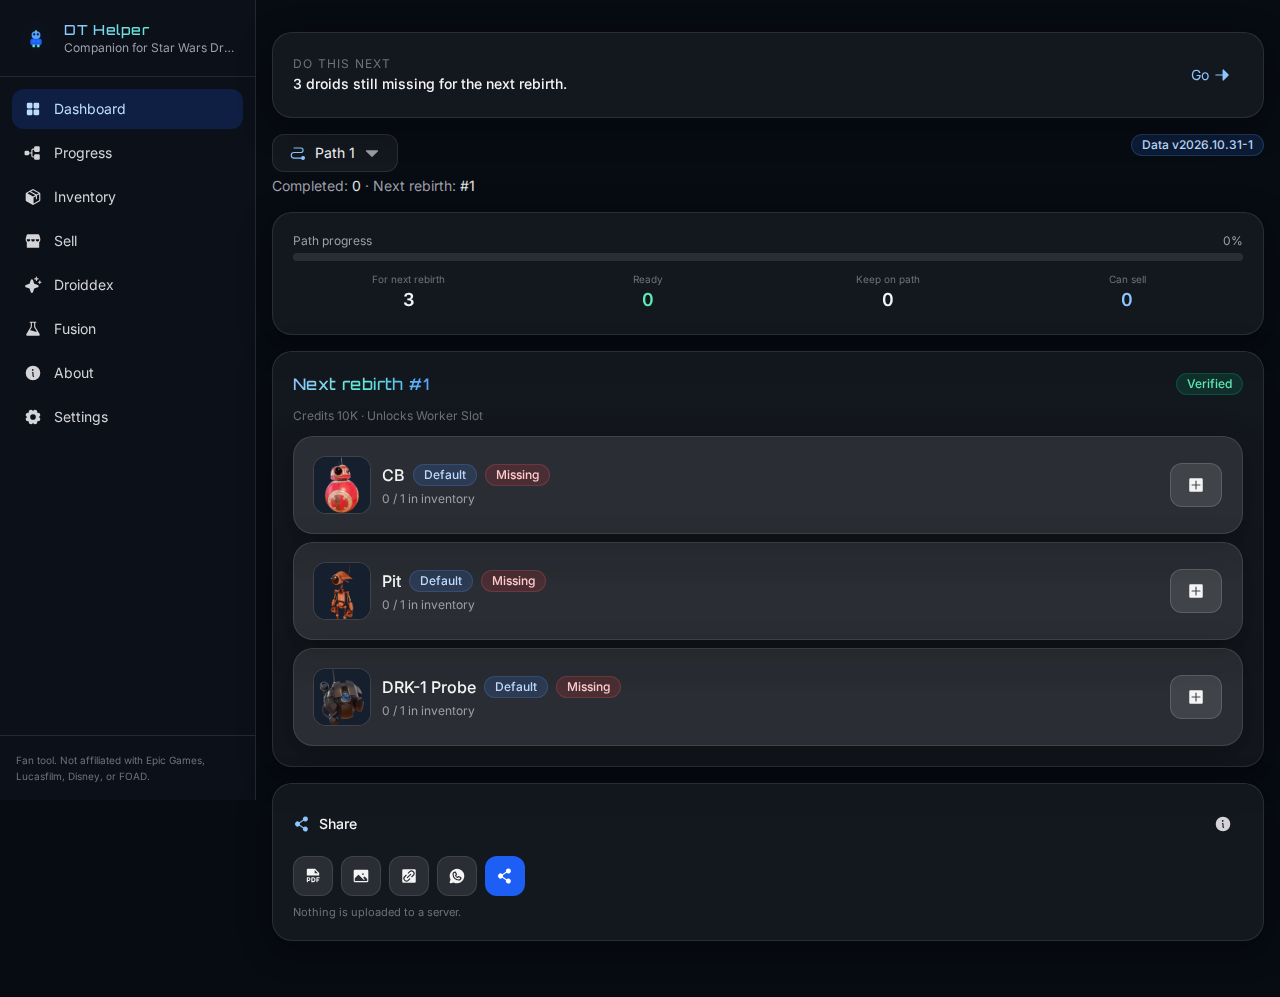
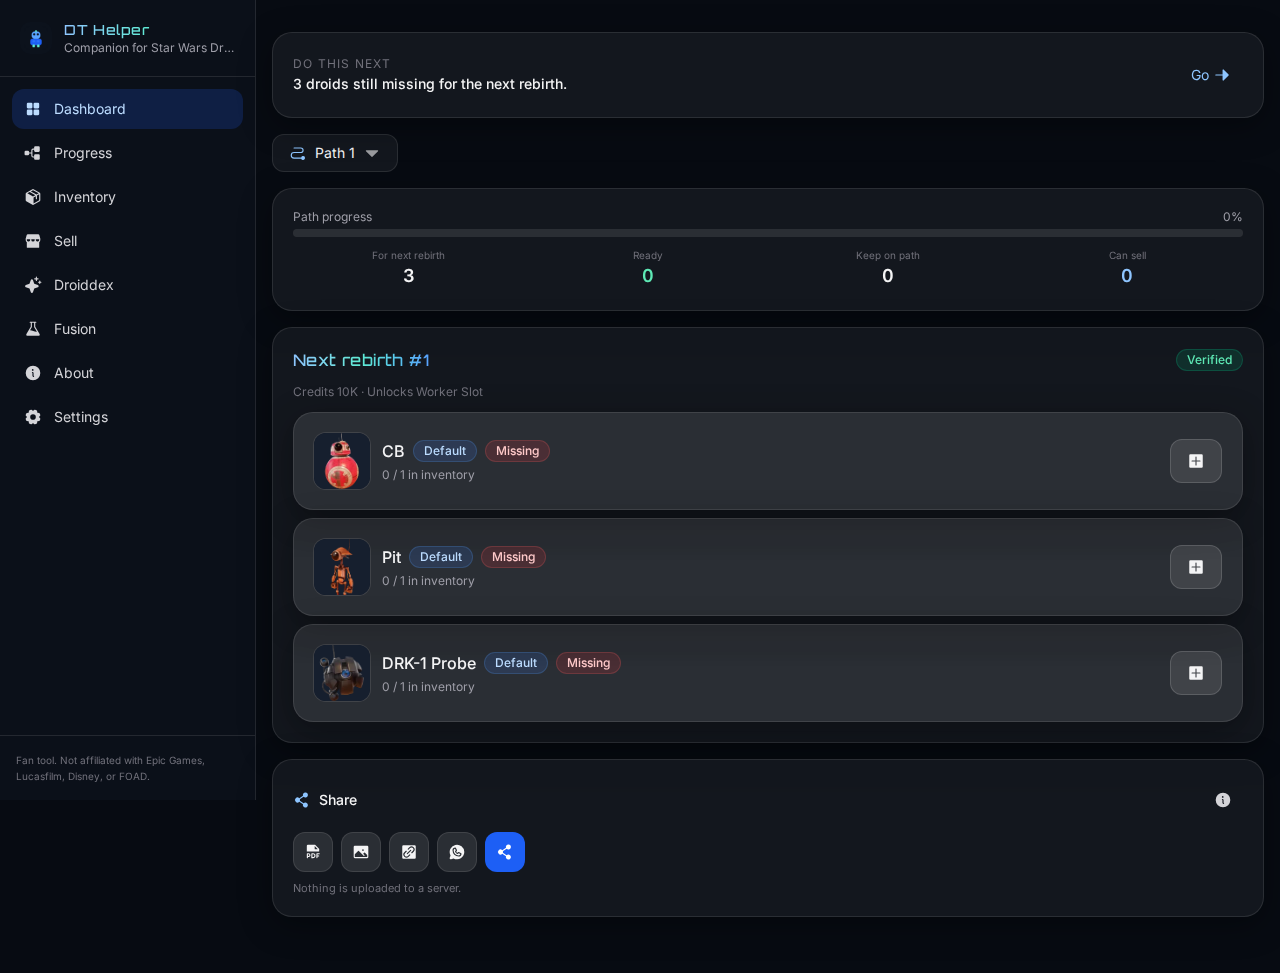
fix(ui): dashboard trim, nav padding, sell list cycle hint

diff --git a/src/pages/DashboardPage.tsx b/src/pages/DashboardPage.tsx
@@ -3,14 +3,14 @@ import { uiIconProps } from '../components/ui/iconStyle'
 import { useEffect, useRef } from 'react'
 import { useTranslation } from 'react-i18next'
 import { Link } from 'react-router-dom'
-import { PathProgressSwitcher, ProgressSummaryLine } from '../components/PathProgressSwitcher'
+import { PathProgressSwitcher } from '../components/PathProgressSwitcher'
 import { RequirementCard } from '../components/RequirementCard'
 import { ShareExportCard } from '../components/ShareExportCard'
 import { Badge } from '../components/ui/Badge'
 import { GlassCard } from '../components/ui/GlassCard'
 import { cn } from '../lib/utils'
 import { ProgressBar } from '../components/ui/ProgressBar'
-import { gameData, getRebirth } from '../domain/gameData'
+import { getRebirth } from '../domain/gameData'
 import { pathProgressPercent, REBIRTHS_PER_PATH } from '../domain/progress'
 import { evaluateRequirements, metRequirementCount } from '../domain/requirements'
 import { analyzeSellCenter, summarizeSellCenter } from '../domain/sellCenter'
@@ -89,16 +89,9 @@ export function DashboardPage() {
         </GlassCard>
       )}
 
-      <div className="flex flex-wrap items-start justify-between gap-2">
-        <div className="space-y-1 min-w-0">
-          <PathProgressSwitcher />
-          <ProgressSummaryLine />
-        </div>
-        {isDataStale() ? (
-          <Badge tone="warn">{t('dashboard.staleData')}</Badge>
-        ) : (
-          <Badge tone="info">{t('dashboard.dataVersion', { version: gameData.dataVersion })}</Badge>
-        )}
+      <div className="flex flex-wrap items-center gap-2">
+        <PathProgressSwitcher />
+        {isDataStale() ? <Badge tone="warn">{t('dashboard.staleData')}</Badge> : null}
       </div>
 
       <GlassCard className="space-y-2 p-3">

diff --git a/src/components/SellAfterRebirthList.tsx b/src/components/SellAfterRebirthList.tsx
@@ -1,5 +1,5 @@
 import { useTranslation } from 'react-i18next'
-import { droidById, cycleById } from '../domain/gameData'
+import { cycleById, droidById, getPathIds } from '../domain/gameData'
 import { formatCycleDisplayName } from '../lib/cycleLabel'
 import { unitsNewlySellableAfterRebirth, type RebirthUnitUsage } from '../domain/rebirthSellPlan'
 import { buildTierLabelMap, formatTierName } from '../domain/tiers'
@@ -9,6 +9,19 @@ import { Badge } from './ui/Badge'
 
 const tierLabels = buildTierLabelMap(gameData.rarities)
 
+function earliestOtherPathId(pathIds: string[]): string | null {
+  const order = getPathIds()
+  let best: string | null = null
+  let bestIdx = Number.POSITIVE_INFINITY
+  for (const id of pathIds) {
+    const idx = order.indexOf(id)
+    if (idx >= 0 && idx < bestIdx) {
+      bestIdx = idx
+      best = id
+    }
+  }
+  return best
+}
 
 function UnitRow({ unit }: { unit: RebirthUnitUsage }) {
   const { t, i18n } = useTranslation()
@@ -37,9 +50,12 @@ function UnitRow({ unit }: { unit: RebirthUnitUsage }) {
         </div>
         {unit.otherPathIds.length > 0 ? (
           <p className="text-[11px] text-zinc-500 mt-0.5">
-            {t('sellAfter.usedOnOtherPath', {
-              paths: unit.otherPathIds.map(pathLabel).join(', '),
-            })}
+            {(() => {
+              const nextPath = earliestOtherPathId(unit.otherPathIds)
+              return nextPath
+                ? t('sellAfter.returnsOnCycle', { name: pathLabel(nextPath) })
+                : null
+            })()}
           </p>
         ) : null}
         {unit.disposition === 'fusionCaution' ? (

diff --git a/src/components/AppShell.tsx b/src/components/AppShell.tsx
@@ -86,7 +86,7 @@ export function AppShell() {
         </footer>
       </aside>
 
-      <main className="flex-1 md:ml-64 pb-[4.75rem] md:pb-6">
+      <main className="flex-1 md:ml-64 pb-[calc(5.5rem+env(safe-area-inset-bottom,0px))] md:pb-6">
         <header className="sticky-mobile-header md:hidden sticky top-0 z-40 border-b border-white/10 bg-surface-950/90 backdrop-blur-xl px-4 py-3 flex items-center gap-3 min-h-[3.25rem]">
           <Logo className="h-8 w-8" />
           <div className="min-w-0 flex-1">

diff --git a/src/pages/ProgressPage.tsx b/src/pages/ProgressPage.tsx
@@ -81,7 +81,7 @@ export function ProgressPage() {
   }
 
   return (
-    <div className="space-y-5">
+    <div className="space-y-5 pb-6 md:pb-0">
       <div className="flex flex-wrap items-start justify-between gap-3">
         <div className="space-y-2">
           <h1 className="font-display text-xl tracking-wide text-balance">{t('nav.progress')}</h1>
